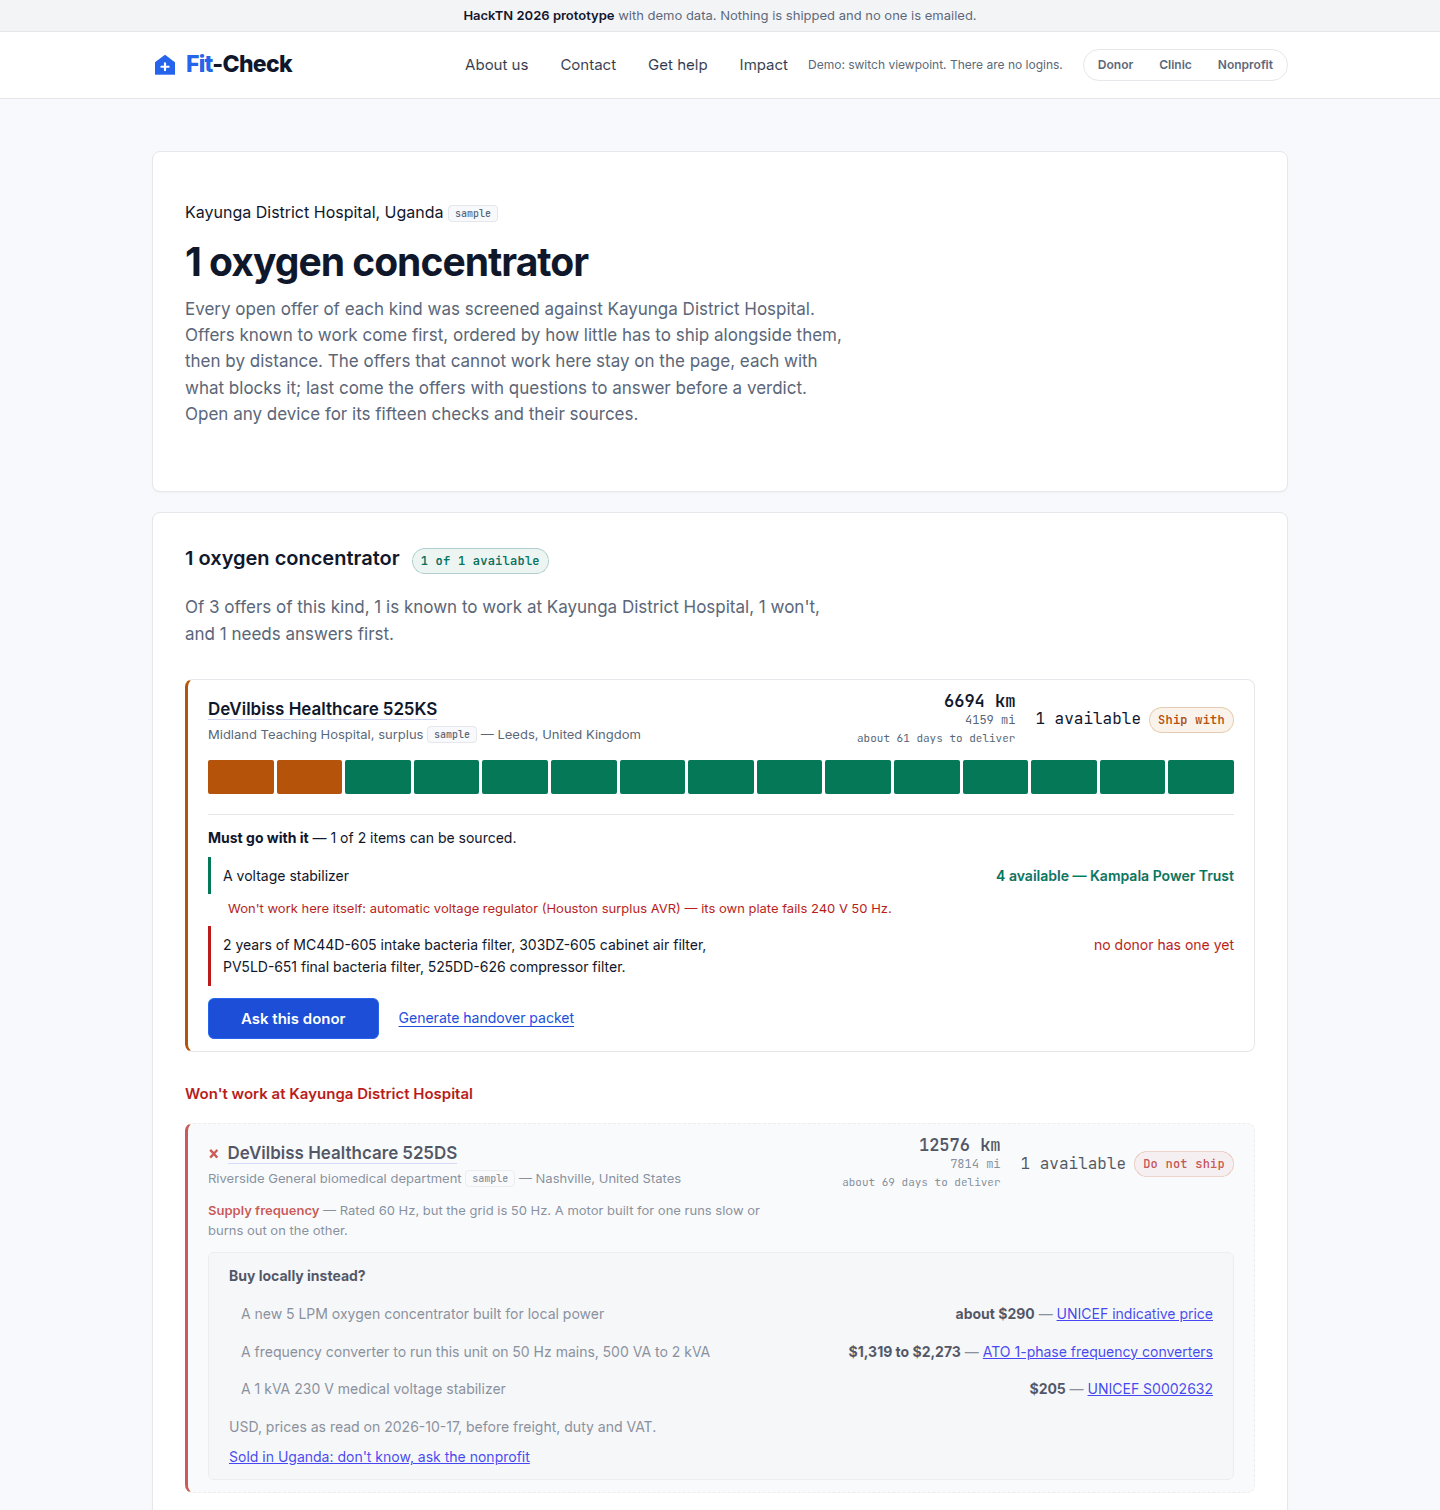
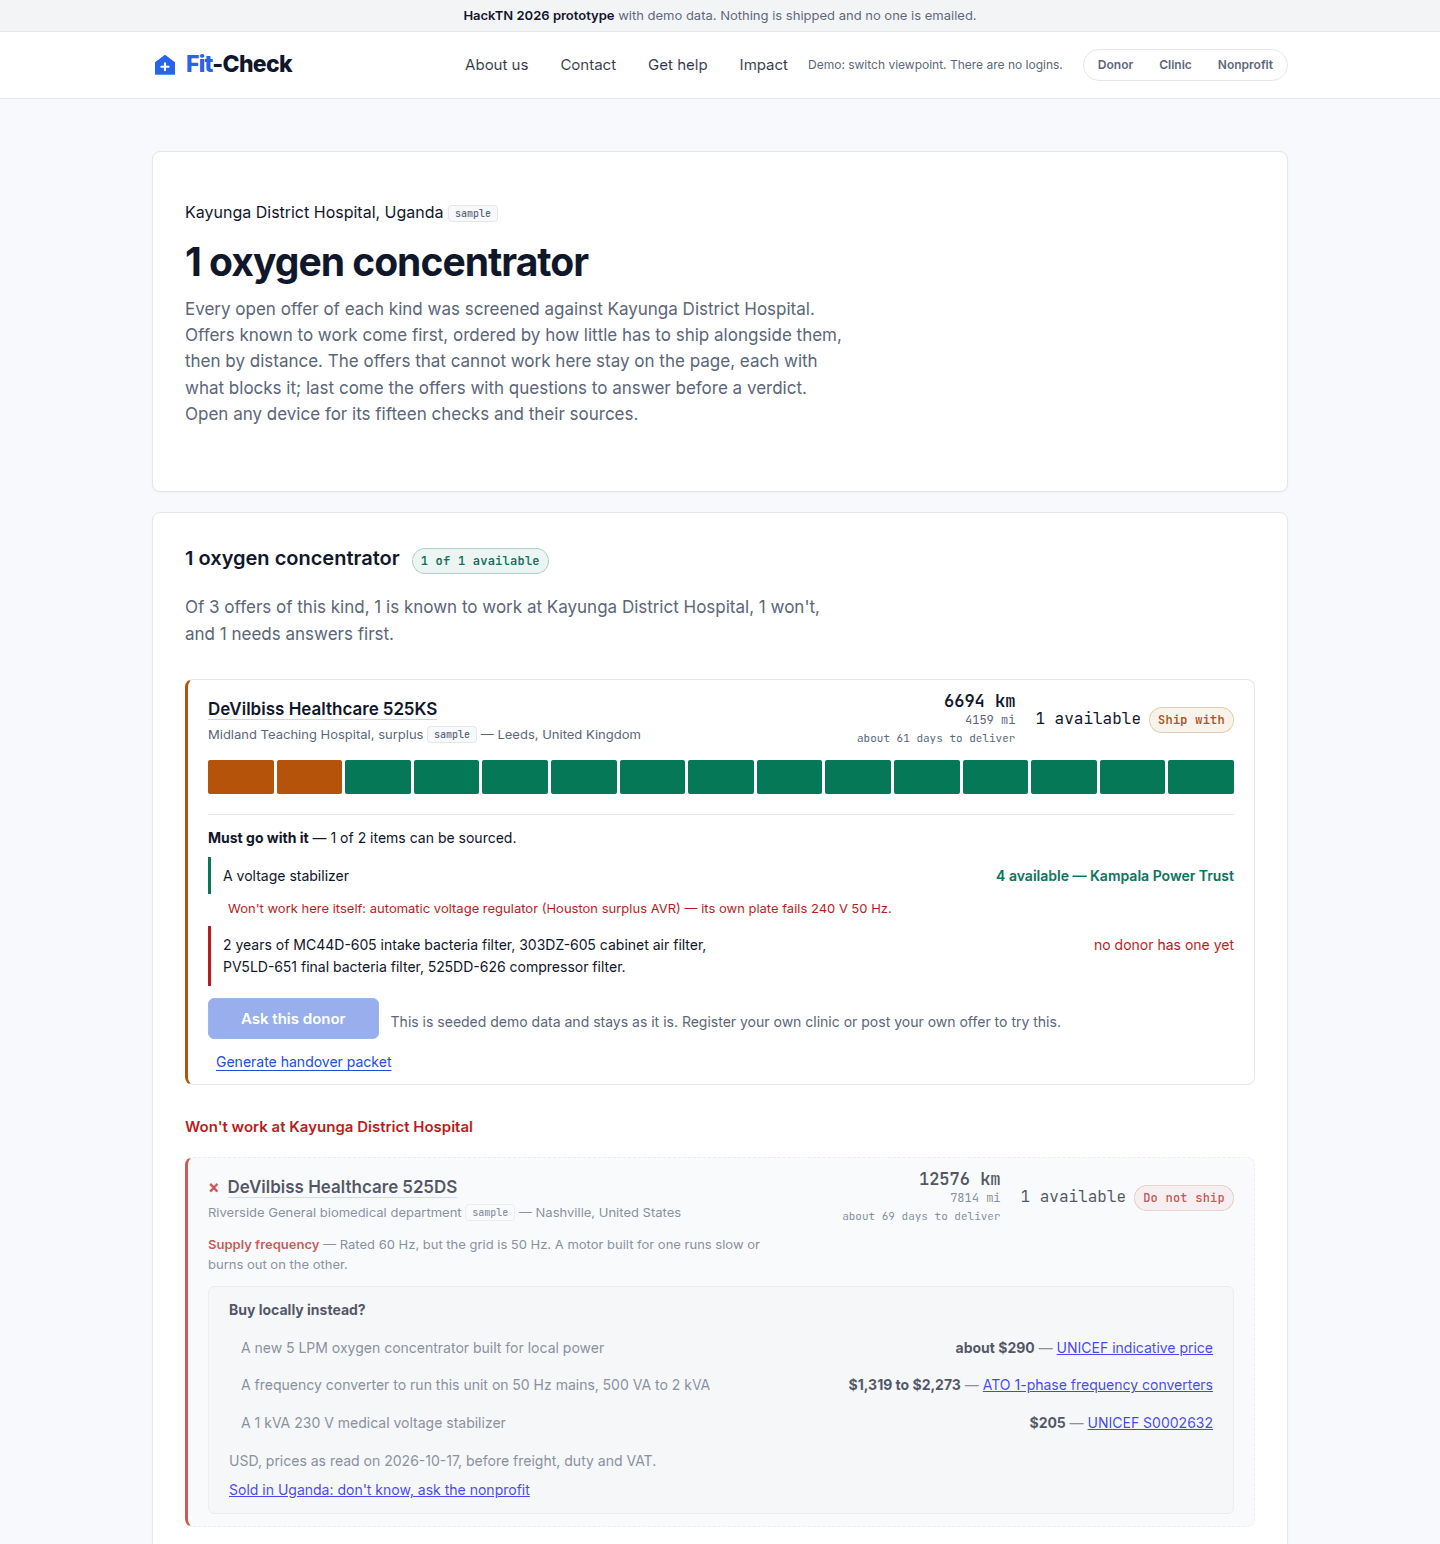
docs: retake the matches screenshot with the seeded rows protected
The README's matches screenshot was taken with DEMO_PROTECT_SEED off, so it
showed a live "Ask this donor" button on the seeded 525KS. The live demo
runs with the setting on and shows the button greyed out with the
seeded-data note. The new capture is the same page at 1440 px from a
local SQLite run with the setting on, and the alt text now describes the
greyed-out button.

diff --git a/README.md b/README.md
@@ -13,7 +13,7 @@ Built for HackTN, Track 1: From Surplus to Social Good.
 
 ## What it looks like
 
-![Matches page for Kayunga District Hospital's request for one oxygen concentrator. The DeVilbiss 525KS ranks first as "Ship with": two of its fifteen checks are conditional, and a voltage stabilizer and two years of filters must go with it. Below it, the 525DS is listed under "Won't work at Kayunga District Hospital" because it is rated 60 Hz and the grid is 50 Hz, with local purchase prices beside it.](docs/img/matches.png)
+![Matches page for Kayunga District Hospital's request for one oxygen concentrator. The DeVilbiss 525KS ranks first as "Ship with": two of its fifteen checks are conditional, and a voltage stabilizer and two years of filters must go with it. Its "Ask this donor" button is greyed out, with a note that the seeded demo data stays as it is. Below it, the 525DS is listed under "Won't work at Kayunga District Hospital" because it is rated 60 Hz and the grid is 50 Hz, with local purchase prices beside it.](docs/img/matches.png)
 
 A clinic's request, every open offer screened against it. The one that can work
 comes first; the one that can't stays on the page with its reason.
